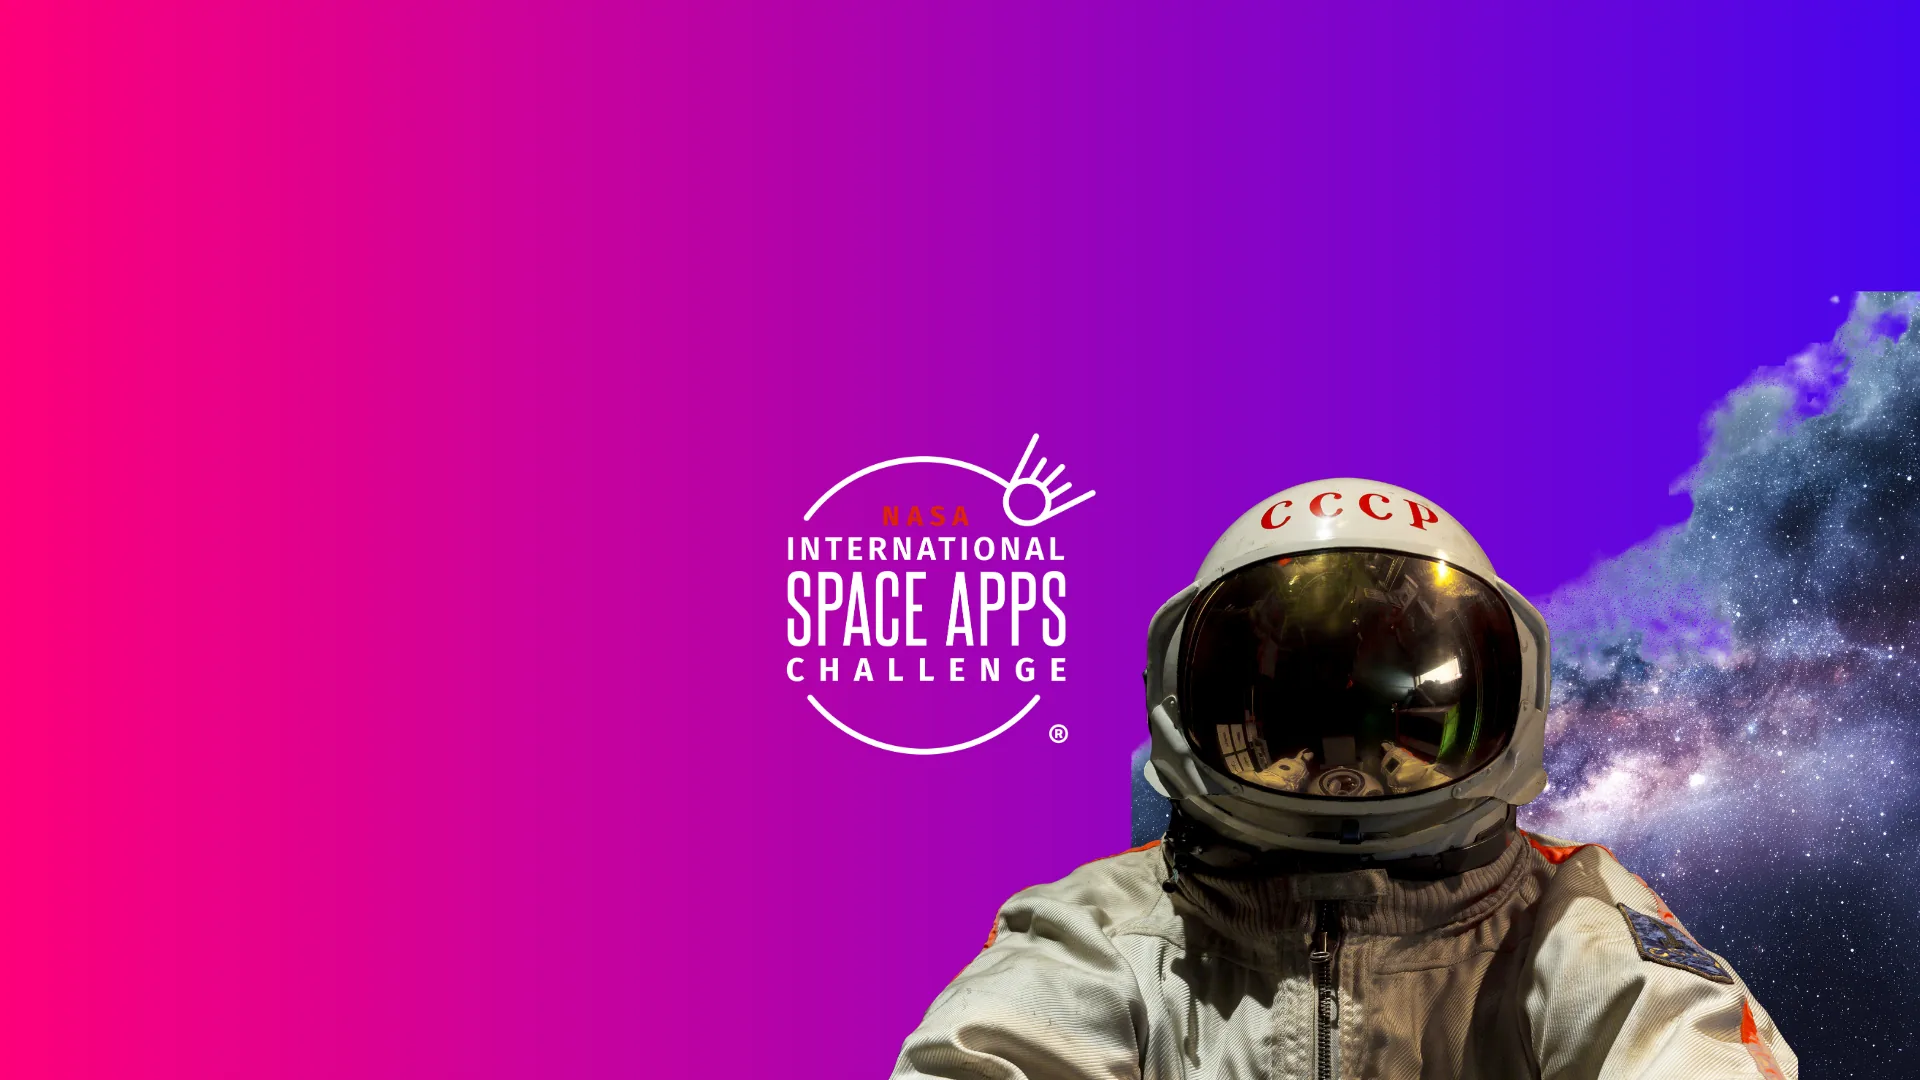
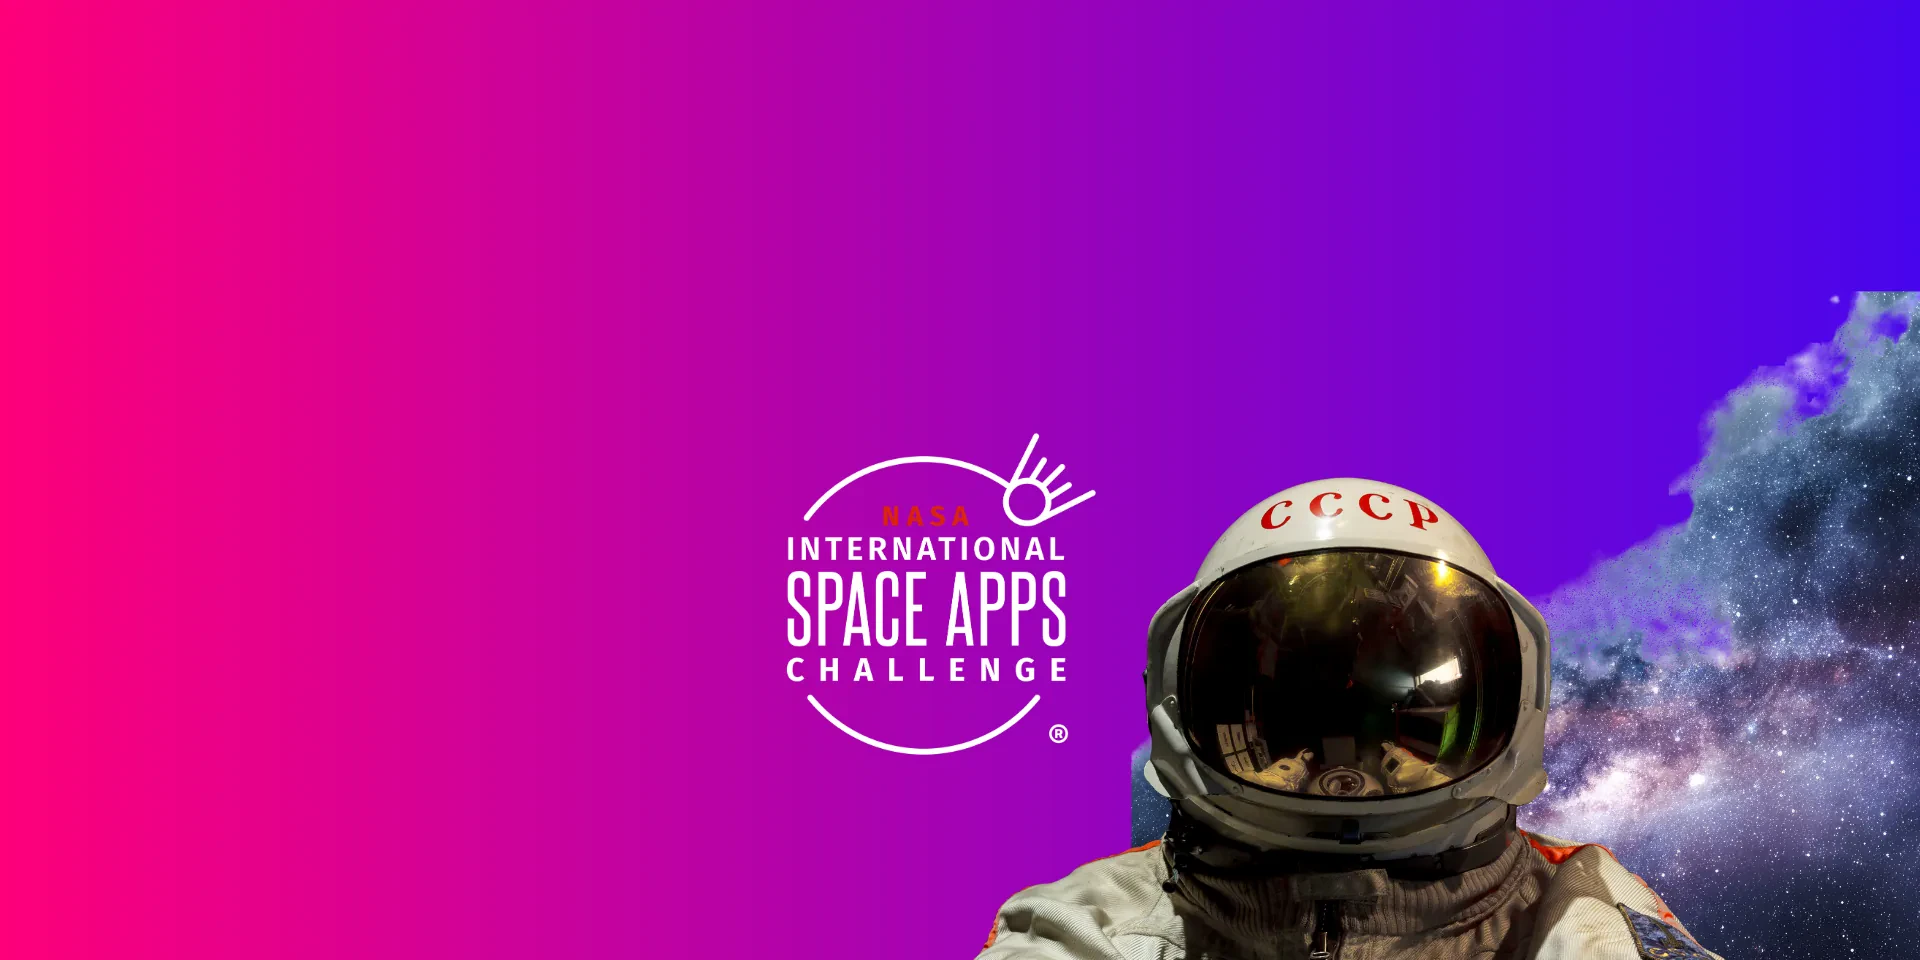
test: recorta 120px al hero para probar proporcion 2:1
PRUEBA, no definitivo. Si no convence, revertir con
git revert 42e58d4 (o restaurar los WebP de 1920x1080).

Las 5 imagenes de escritorio pasan de 1920x1080 (16:9) a 1920x960 (2:1),
recortando 120px por el borde INFERIOR (se conserva la parte alta, donde
suele estar el sujeto). Reencodeadas con libwebp quality 90; el peso total
casi no cambia: 419KB -> 421KB.

La seccion pasa a xl:aspect-[2/1], asi que el alto sigue siendo la mitad
del ancho y la imagen entra completa con 0% de recorte.

El hero queda 120px mas corto que la pantalla: a 1920x1080 mide 960px y
ya se ve parte de la siguiente seccion.

Changed region(s): [[0.4062, 0.25, 1.0, 1.0]]

diff --git a/src/components/Hero.tsx b/src/components/Hero.tsx
@@ -76,7 +76,7 @@ export const Hero: React.FC = () => {
     >
       <div className="relative bg-[#151433] dark:bg-[#151433] shadow-2xl select-none">
         {/* Slides */}
-        <div className="relative h-[calc(100svh+170px)] min-h-[720px] xl:h-auto xl:min-h-0 xl:aspect-[16/9]">
+        <div className="relative h-[calc(100svh+170px)] min-h-[720px] xl:h-auto xl:min-h-0 xl:aspect-[2/1]">
           {HERO_SLIDES.map((slide, index) => {
             const isActive = index === activeIndex;
 
